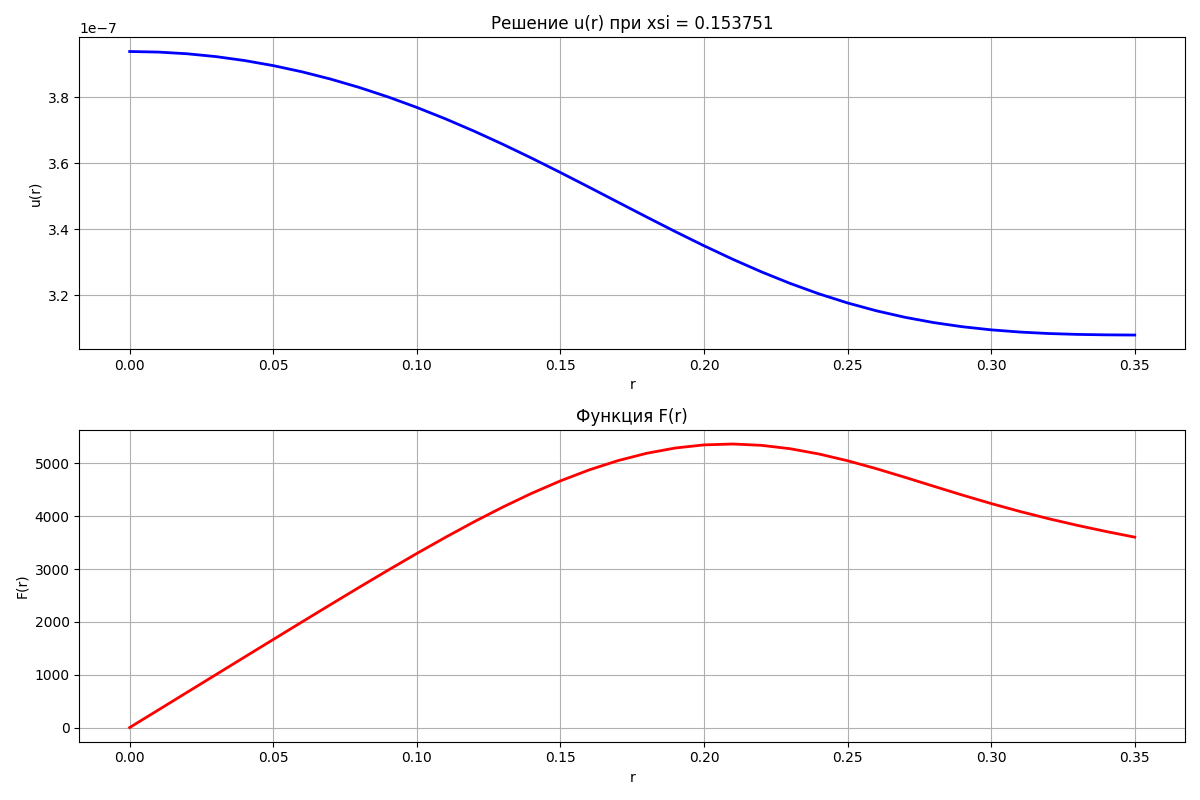
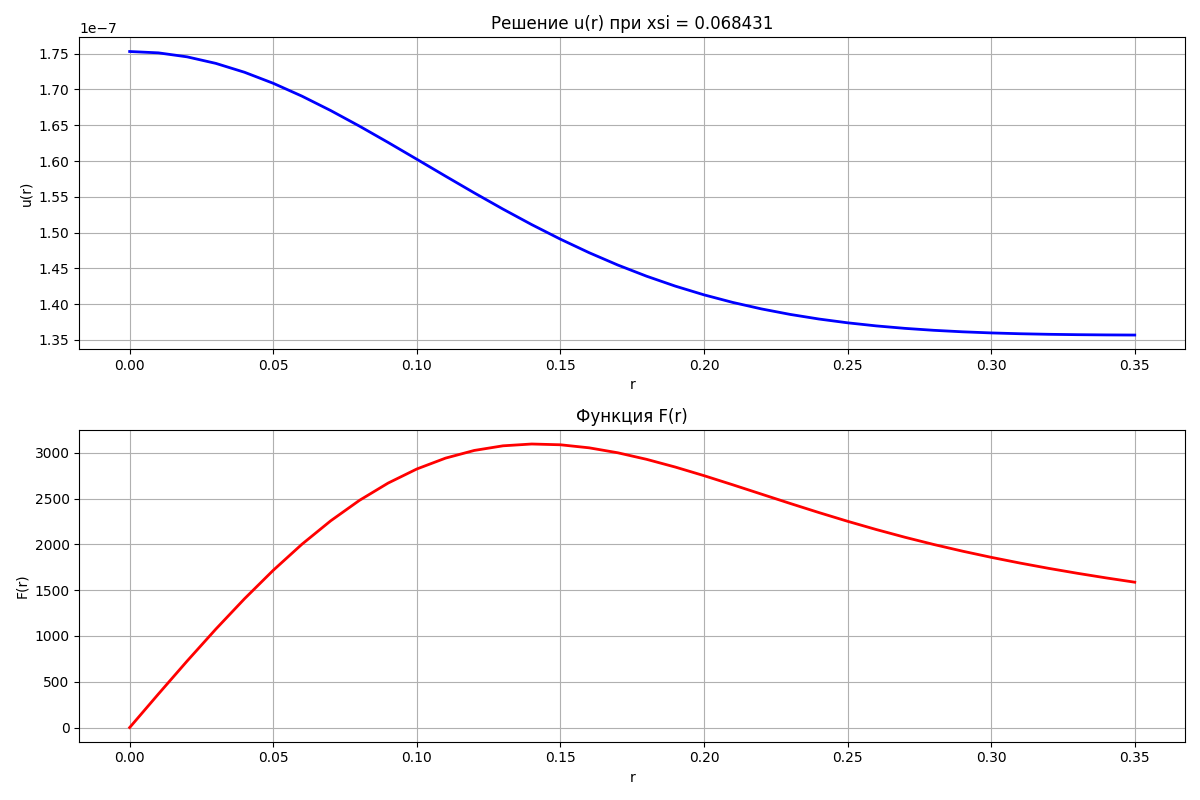
pass lab_02

diff --git a/lab_02/main_1.py b/lab_02/main_1.py
@@ -1,0 +1,111 @@
+import numpy as np
+import matplotlib.pyplot as plt
+from scipy.interpolate import interp1d
+
+# Константы
+c = 3e10  # скорость света, см/с
+R = 0.35  # радиус цилиндра, см
+Tw = 2000  # температура стенки, K
+T0 = 10000  # начальная температура, K
+EPS = 1e-4  # точность метода стрельбы
+P = 4
+
+# Таблица значений k(T)
+# Значения температуры и коэффициента поглощения, взятые из таблицы
+# Они используются для интерполяции значений k(T)
+t_values = np.array([2000, 3000, 4000, 5000, 6000, 7000, 8000, 9000, 10000])
+k_values = np.array([8.2E-03, 2.768E-02, 6.56E-02, 1.281E-01, 2.214E-01,
+                      3.516E-01, 5.248E-01, 7.472E-01, 1.025E+00])
+
+# Интерполяция k(T) в логарифмическом масштабе
+# Используется логарифмическое преобразование для более точной интерполяции данных
+log_k_interp = interp1d(np.log(t_values), np.log(k_values), kind='linear', fill_value='extrapolate')
+def k_interp(T):
+    """Вычисляет интерполированное значение k(T) с использованием логарифмической интерполяции."""
+    return np.exp(log_k_interp(np.log(T)))
+
+# Функция температуры
+T = lambda r: T0 + (Tw - T0) * (r / R) ** P  # Линейное изменение температуры в цилиндре
+
+# Функция Планка
+up = lambda r: 3.084e-4 / (np.exp(4.799e4 / T(r)) - 1)  # Вычисление объемной плотности энергии
+
+# Система ОДУ
+def ode_system(r, u, F):
+    """Формулирует систему дифференциальных уравнений для метода Рунге-Кутта."""
+    k_r = k_interp(T(r))  # Вычисление коэффициента поглощения
+    du_dr = - F * 3 * k_r / c #if r != 0 else F / (2 * k_r)  # Производная u по r (учет деления на ноль)
+    if r == 0:
+        dF_dr = c * k_r * (up(r) - u) / 2
+    else:
+        dF_dr = c * k_r * (up(r) - u) - F / r # Производная F по r
+    return du_dr, dF_dr
+
+# Метод Рунге-Кутта 4-го порядка
+def runge_kutta(u0, F0, h=1e-2):
+    """Численное решение системы ОДУ методом Рунге-Кутта 4-го порядка."""
+    r_vals = np.arange(0, R + h, h)  # Создание массива значений r
+    u_vals, F_vals = [u0], [F0]  # Начальные условия
+    
+    for r in r_vals[:-1]:
+        u, F = u_vals[-1], F_vals[-1]  # Последние рассчитанные значения
+        
+        # Вычисление коэффициентов метода Рунге-Кутта
+        k1, q1 = ode_system(r, u, F)
+        k2, q2 = ode_system(r + h / 2, u + h * k1 / 2, F + h * q1 / 2)
+        k3, q3 = ode_system(r + h / 2, u + h * k2 / 2, F + h * q2 / 2)
+        k4, q4 = ode_system(r + h, u + h * k3, F + h * q3)
+        
+        # Итоговые значения на следующем шаге
+        u_next = u + (h / 6) * (k1 + 2 * k2 + 2 * k3 + k4)
+        F_next = F + (h / 6) * (q1 + 2 * q2 + 2 * q3 + q4)
+        
+        u_vals.append(u_next)
+        F_vals.append(F_next)
+    
+    return r_vals, np.array(u_vals), np.array(F_vals)
+
+# Метод стрельбы (метод бисекции)
+def shooting_method(chi_min=0.01, chi_max=1.0):
+    """Подбор оптимального начального условия u(0) методом половинного деления."""
+    while abs((chi_max - chi_min) / chi_max) > EPS:
+        chi_mid = (chi_min + chi_max) / 2  # Среднее значение chi
+        u0 = chi_mid * up(0)  # Начальное условие для u
+        _, u_vals, F_vals = runge_kutta(u0, 0)  # Решение системы
+        
+        # Проверка условия 
+        if (- F_vals[-1] + 0.39 * c * u_vals[-1]) > 0:
+            chi_max = chi_mid
+        else:
+            chi_min = chi_mid
+    
+    return chi_mid
+
+# Решение задачи
+chi_opt = shooting_method()  # Поиск оптимального параметра chi (методом стрельбы)
+u0_opt = chi_opt * up(0)  # Вычисление оптимального начального условия
+r_vals, u_vals, F_vals = runge_kutta(u0_opt, 0)  # Численное решение системы методом Рунге-Кутта
+print(r_vals[-1], u_vals[-1], F_vals[-1])
+
+# Построение графиков
+plt.figure(figsize=(12, 8))
+
+plt.subplot(2, 1, 1)
+plt.plot(r_vals, u_vals, 'b-', linewidth=2)
+plt.title(f'Решение u(r) при xsi = {chi_opt:.6f}')
+plt.xlabel('r')
+plt.ylabel('u(r)')
+plt.grid(True)
+
+plt.subplot(2, 1, 2)
+plt.plot(r_vals, F_vals, 'r-', linewidth=2)
+plt.title('Функция F(r)')
+plt.xlabel('r')
+plt.ylabel('F(r)')
+plt.grid(True)
+
+plt.tight_layout()
+plt.savefig('solution.png')
+
+# Вывод оптимального значения chi
+print(f'Оптимальное значение chi: {chi_opt}')
